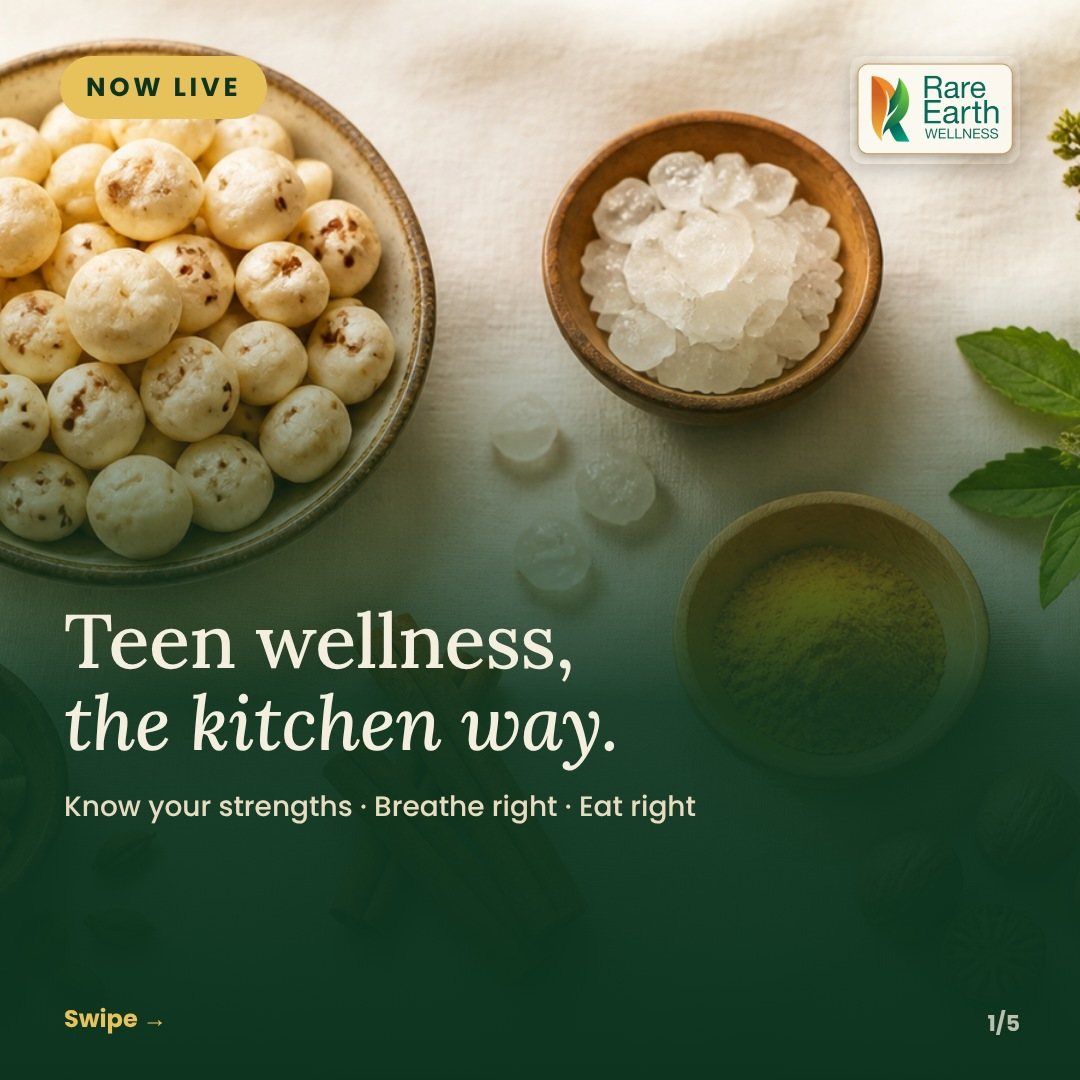
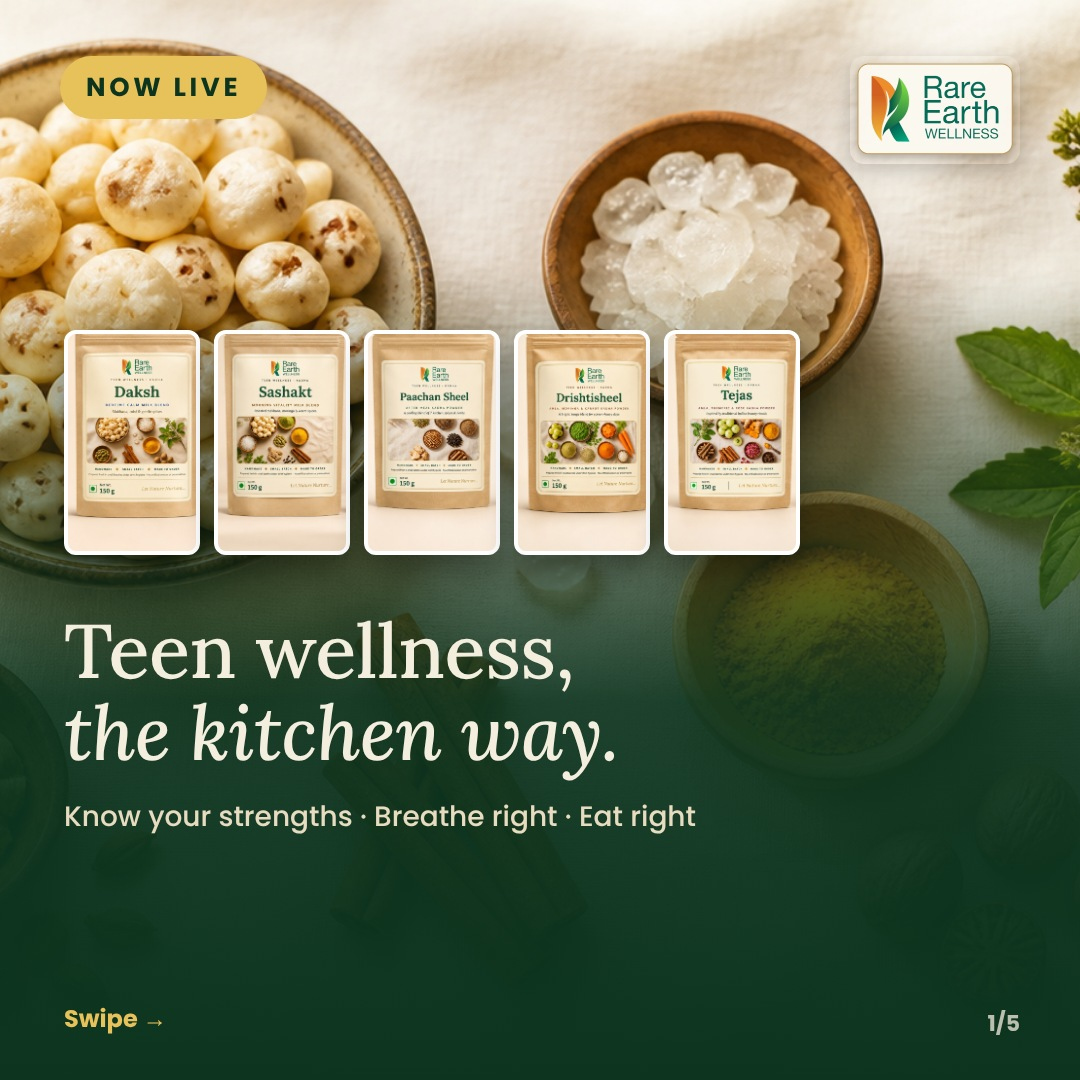
L3 + L2c1 with pouches (temporary)
Claude-Session: https://claude.ai/code/session_016rkx1DK1G2d91WsEwkoYA4

Changed region(s): [[0.0306, 0.3056, 0.7639, 0.5194], [0.0611, 0.55, 0.6417, 0.7639], [0.3361, 0.55, 0.3667, 0.5806]]

diff --git a/tmpxfer/review-L3.html b/tmpxfer/review-L3.html
@@ -1,5 +1,5 @@
 <!doctype html><html><head><meta charset="utf-8"><title>Review: L3 launch image</title><style>body{margin:0;background:#1d2a20;font-family:system-ui;color:#f4eedf;padding:24px}h1{font-weight:500;margin:0 0 6px}p{margin:0 0 20px;color:#cfe0d2}.row{display:flex;gap:24px;align-items:flex-start;flex-wrap:wrap}.row div{font-size:14px;color:#cfe0d2}.row img{display:block;border-radius:10px;margin-top:6px}</style></head><body>
 <h1>3 of 8 · L3 · Launch single image</h1>
-<p>Same picture in two shapes: feed (4:5) and Stories/Reels (9:16). Each pillar now shows its own link.</p>
-<div class="row"><div>Feed 4:5<img src="ad-L3-4x5.jpg?v=2" style="height:620px"></div><div>Stories 9:16<img src="ad-L3-9x16.jpg?v=2" style="height:620px"></div></div>
+<p>Same picture in two shapes: feed (4:5) and Stories/Reels (9:16). Now with all five product pouches, and each pillar shows its own link. Also updated: L2 card 1 now shows the pouches too.</p>
+<div class="row"><div>Feed 4:5<img src="ad-L3-4x5.jpg?v=3" style="height:620px"></div><div>Stories 9:16<img src="ad-L3-9x16.jpg?v=3" style="height:620px"></div><div>L2 card 1 (updated)<img src="ad-L2-card1.jpg?v=3" style="height:500px"></div></div>
 </body></html>
